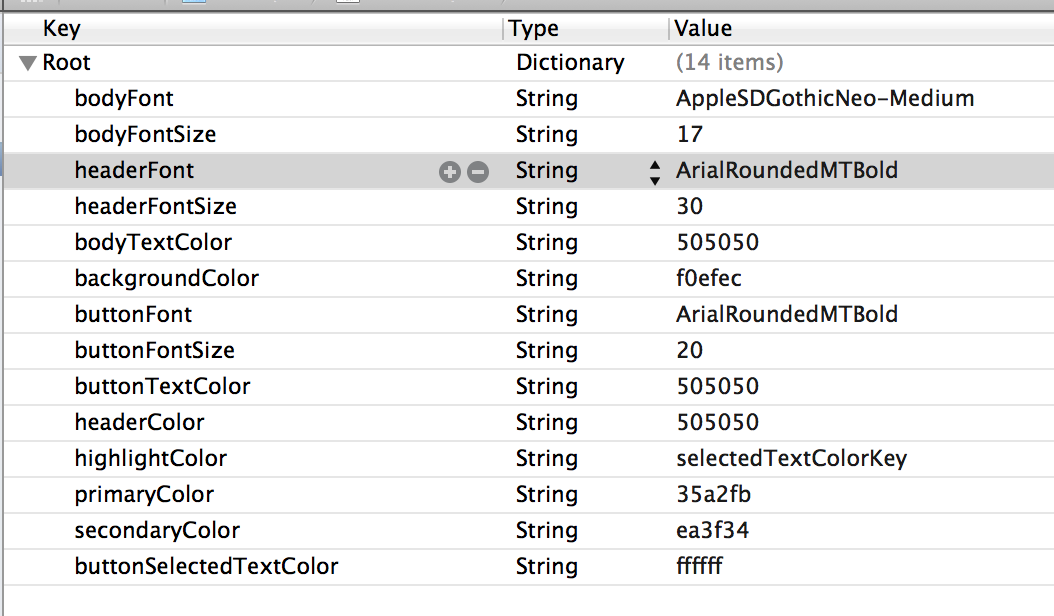
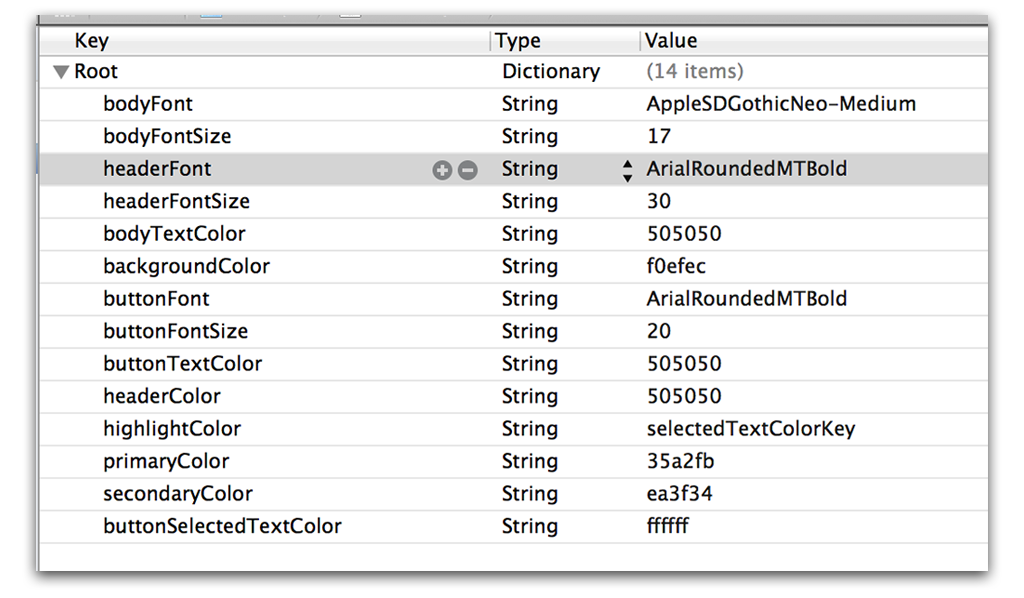
added shadows and inline images

Changed region(s): [[0.0, 0.0, 1.0, 0.9933]]

diff --git a/README.md b/README.md
@@ -48,7 +48,11 @@ Sorry if that's a little confusing. Here are some pictures.
 
 #### Plist
 
+<img src="https://raw.github.com/rnystrom/RNThemeManager/master/images/plist.png" />
+
 #### NIB
+
+<img src="https://raw.github.com/rnystrom/RNThemeManager/master/images/keypaths.png" />
 
 ## Theming with Code
 
